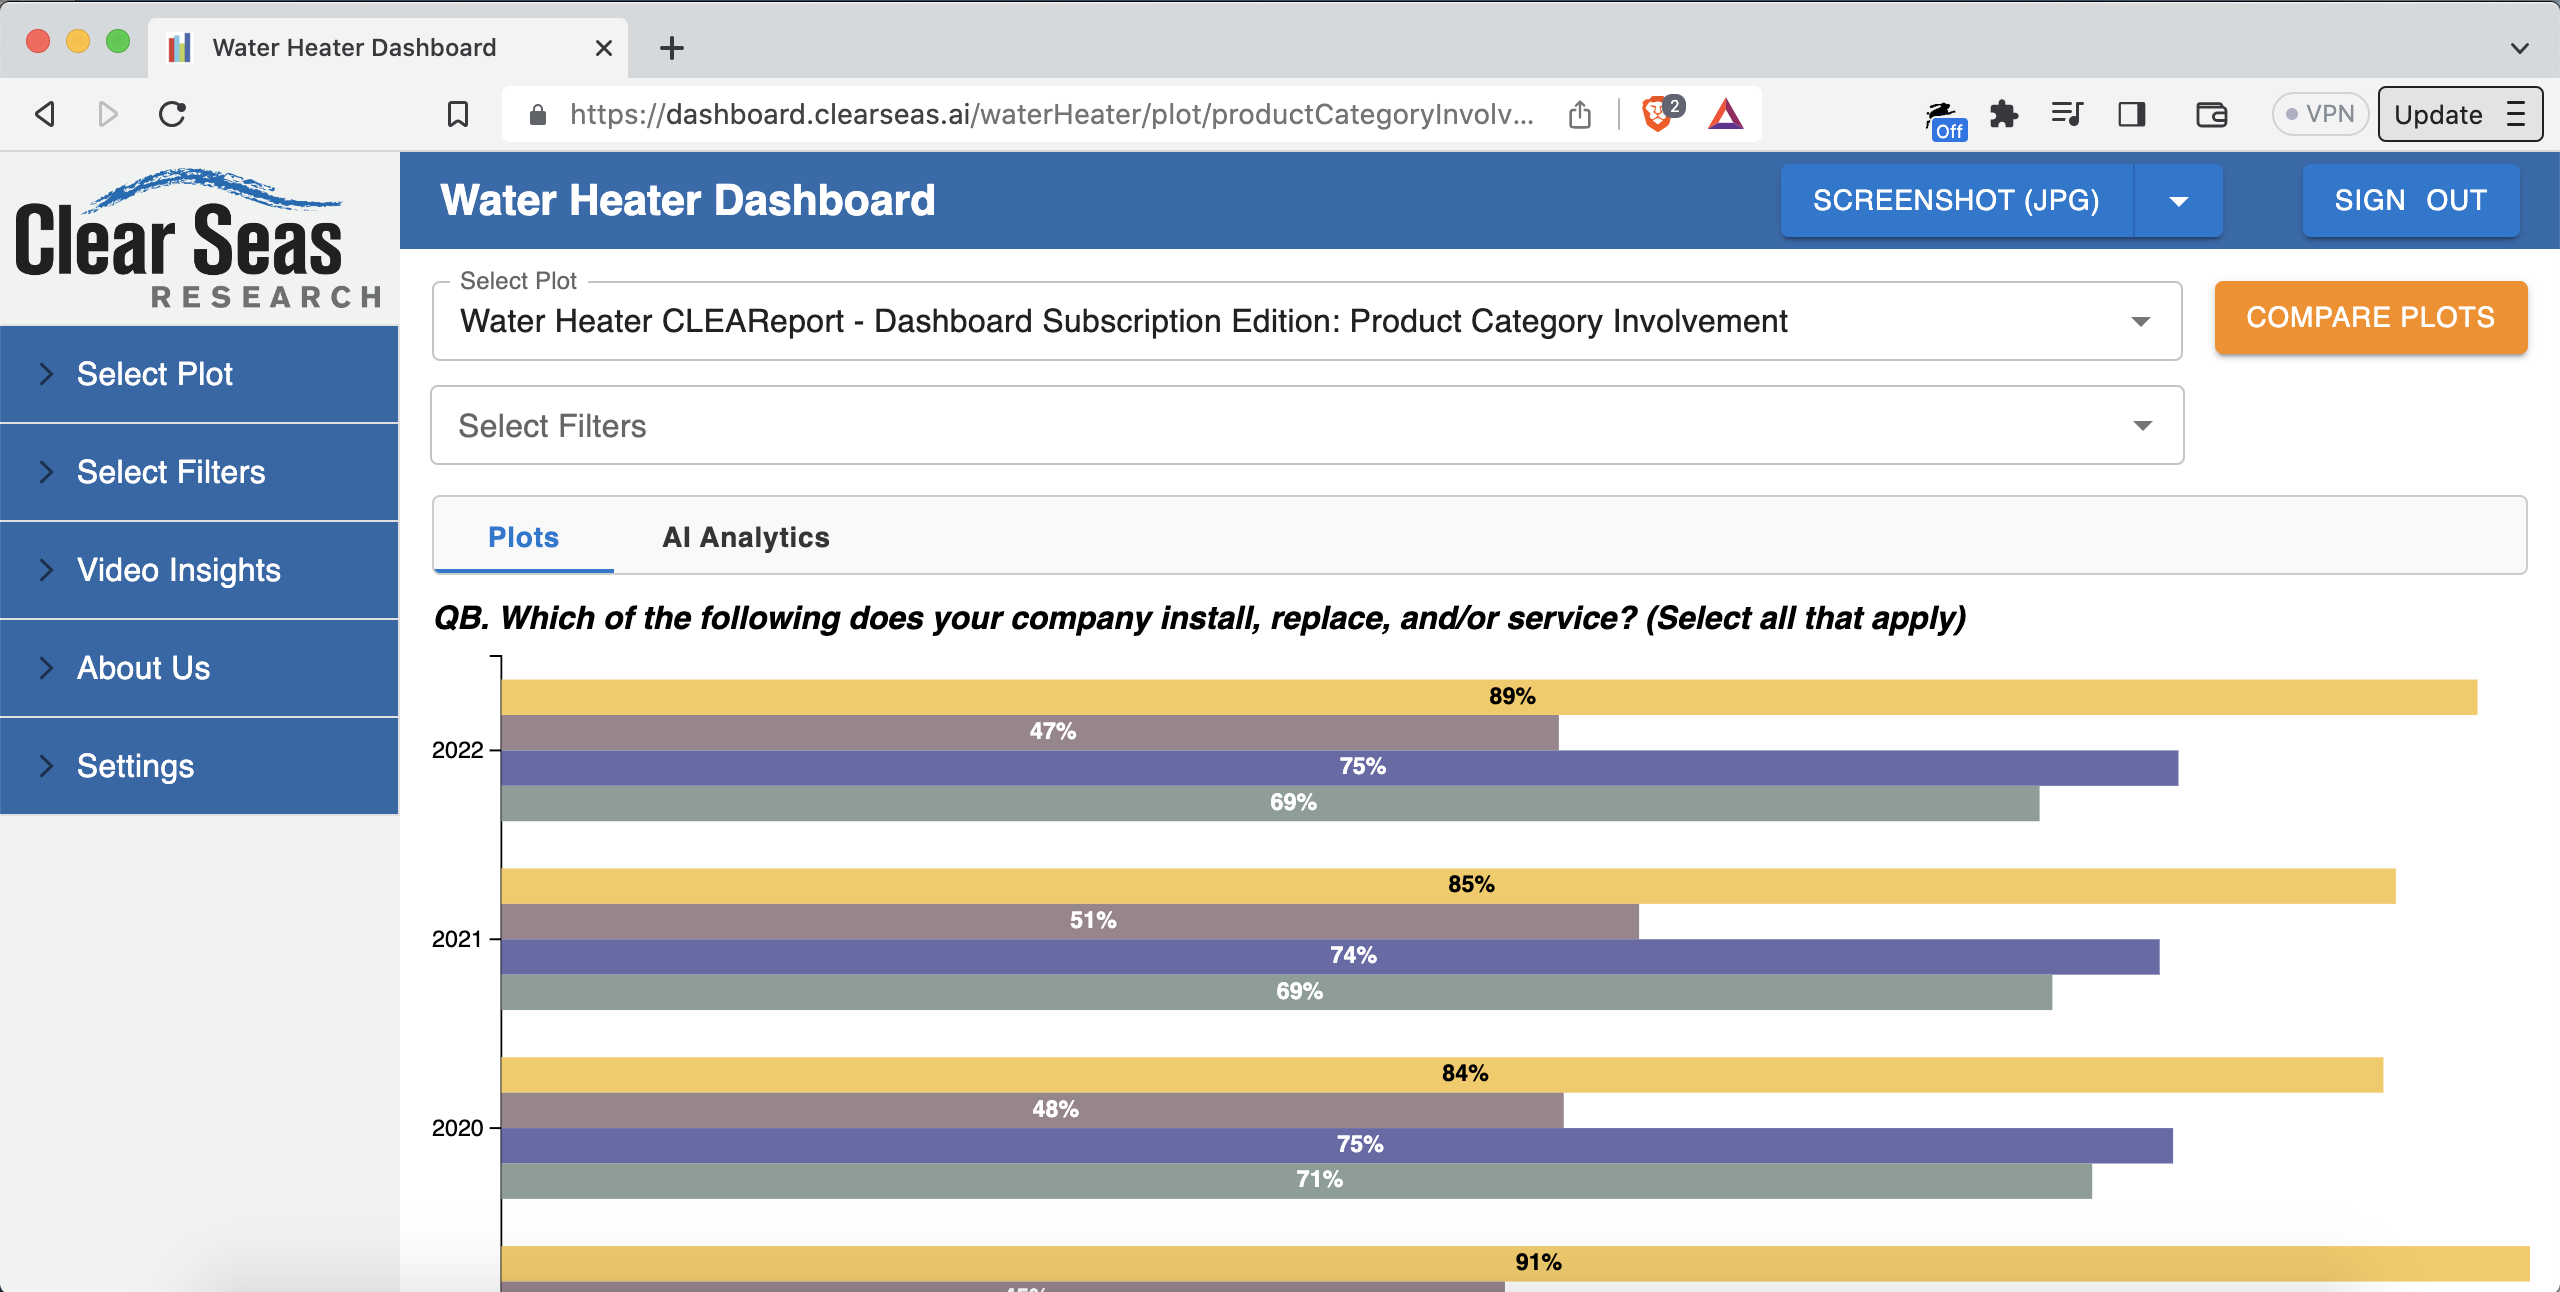
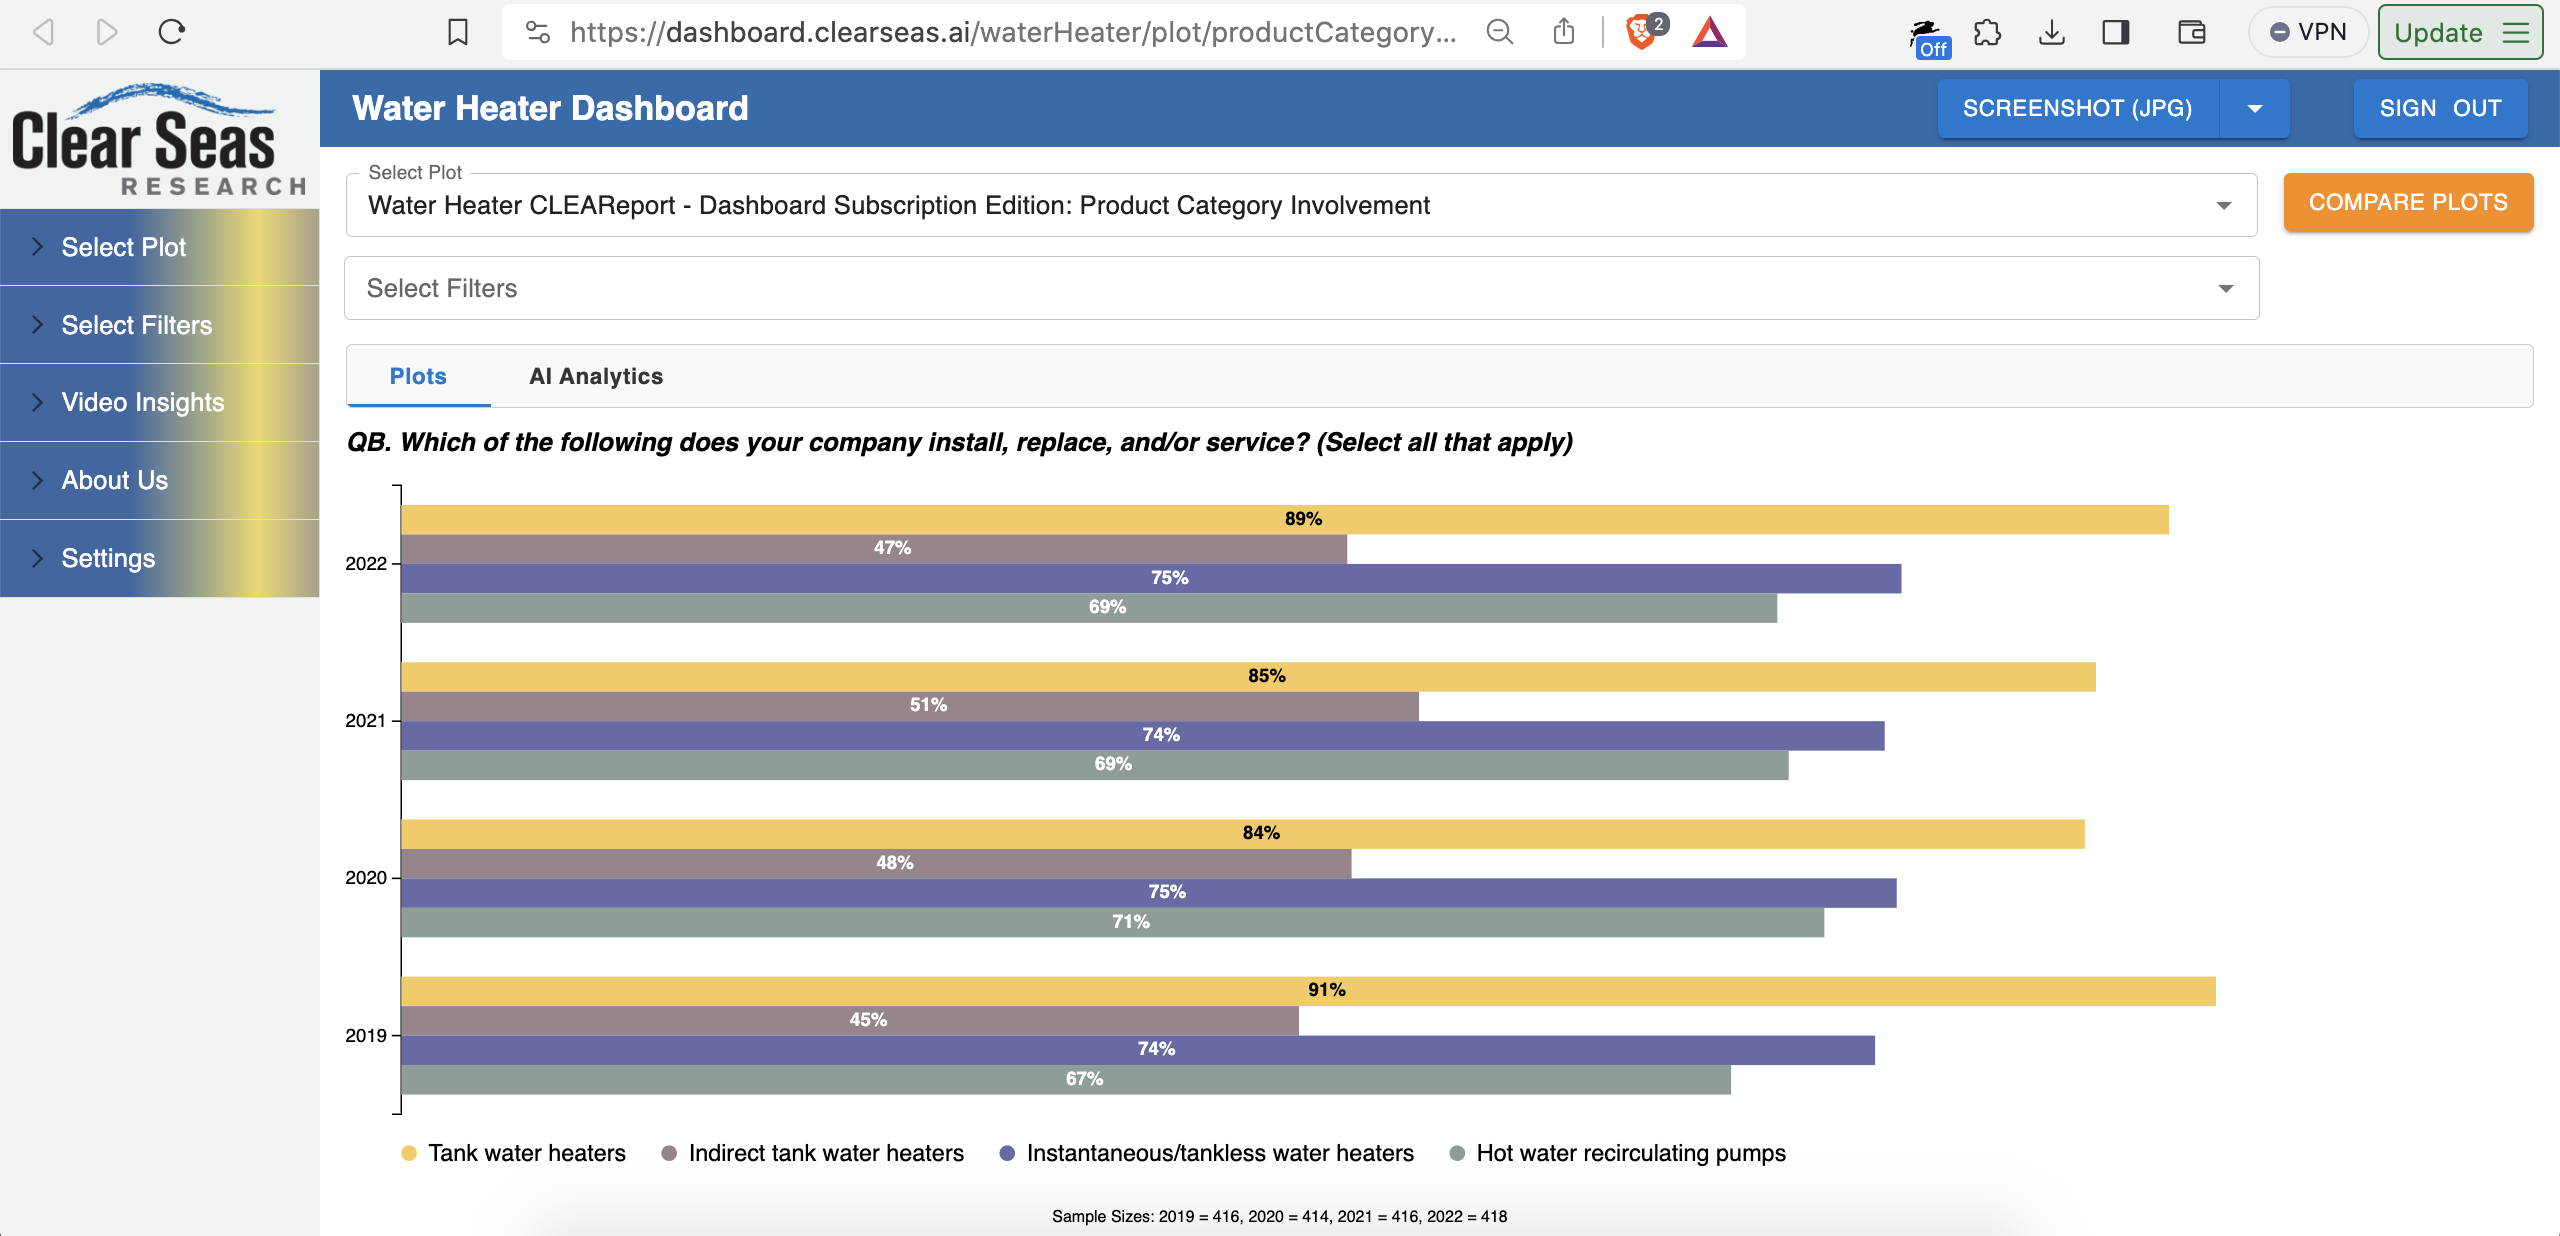
WIP

diff --git a/_posts/2023-9-23-annoucing-a-new-consulting-project.md b/_posts/2023-9-23-annoucing-a-new-consulting-project.md
@@ -4,10 +4,10 @@
 
 #### A few months ago, I posted about a project for Mitchell Henderson, the CEO of Clear Seas Research, a market research company in Troy Michigan: [https://tinyurl.com/664kraza](https://tinyurl.com/664kraza).
 
-Here's what it looks like:
+Here's what that project looks like:
 ![ENRCostData.com](https://bradleyculley.github.io/images/ENR_Cost_Data.png)
 
-That was actually the *second* project I worked on for Mitchell, and today I’m posting about the first! Technical details are at the end, if you're looking for those.
+That was actually the *second* project I worked on for Mitchell. Today I’m posting about the first! Technical details are at the end, if you're looking for those.
 
 ---
 
@@ -15,33 +15,33 @@ That was actually the *second* project I worked on for Mitchell, and today I’m
 
 It’s an AI-first platform for understanding market research data.
 
-Mitchell and I worked on it for about a year and half. March 2022 to August 2023.
+Mitchell and I worked on it for a year and half. March 2022 to August 2023.
 
-The team has also grown during that time. Mitchell’s brought on four more software engineers over the past 6 months, through the TopTal contracting service. I performed the interviews and served as their engineering manager. All four are superb engineers, who have been awesome to work with.
+The team has also grown during that time. Mitchell’s brought on four more software engineers over the past 6 months, through the TopTal contracting service. I performed the interviews and served as their engineering manager. All four are superb engineers. They've been awesome to work with.
 
-This is one of the dashboards: [https://dashboard.clearseas.ai/waterHeater](https://dashboard.clearseas.ai/waterHeater)
+This is one of the "dashboards" in the platform: [https://dashboard.clearseas.ai/waterHeater](https://dashboard.clearseas.ai/waterHeater)
 
 ![Water heater dashboard.png](https://bradleyculley.github.io/images/Water_heater_dashboard.png)
 
 That dashboard is all about water heaters. The intended users are employees of water heater manufacturing companies.
 
-The whole platform has about 90 different "dashboard types". To give economic scale, a given dashboard sells for about $100,000/year (sometimes bundled with a separate research report).
+The whole platform has about 90 different "dashboard types". To give economic scale, a given dashboard sells for about $100,000/year, sometimes bundled with a separate research report.
 
-The core of the platform is its plots. For example, let’s say you wanted to know which types of water heaters are most popular, and to see the trend over the past three years. The types are "tank" (has a water tank), "tankless/instantaneous" (no water tank), and so on. In market research, this is called "product category involvement".
+The core of the platform is its plots. For example, let’s say you wanted to know which types of water heaters are most popular, and to see the trend over the past three years. The types are "tank" (has a water tank), "tankless/instantaneous" (no water tank), and so on. In market research terminology, this is called "product category involvement".
 
-Here’s a chart with that breakdown: [https://dashboard.clearseas.ai/waterHeater/plot/productCategoryInvolvement](https://dashboard.clearseas.ai/waterHeater/plot/productCategoryInvolvement).
+Here’s a chart with that breakdown: [https://dashboard.clearseas.ai/waterHeater/plot/productCategoryInvolvement](https://dashboard.clearseas.ai/waterHeater/plot/productCategoryInvolvement)
 
 ![Water heater product category involvement.png](https://bradleyculley.github.io/images/Water_heater_product_category_involvement.png)
 
-A "killer feature" is side-by-side chart comparisons, including with different filters on the left and the right.
+A "killer feature" is side-by-side chart comparisons, including with different filters on the left and right.
 
 For example, what’s the product category involvement for small companies versus large companies?
 
 In other words, does the choice of what kind of water heater gets installed depend on whether it’s installed by a small HVAC company or a large HVAC company? Do small companies hate dealing with tankless for some reason?
 
-Here's your answer: [https://tinyurl.com/mrfszzv4](https://tinyurl.com/mrfszzv4).
+Here's your answer: [https://tinyurl.com/mrfszzv4](https://tinyurl.com/mrfszzv4)
 
-![Water heater company sizes.png](https://bradleyculley.github.io/images/Water_heater_company_sizes.png)
+![Product_Category_Involvement_Plot_Comparison.png](https://bradleyculley.github.io/images/Product_Category_Involvement_Plot_Comparison.png)
 
 Small HVAC companies keep it simple. They deal less in indirect tank heaters.
 
@@ -218,9 +218,9 @@ The final leg of DNS delegation to the ALB is just an A record.
 So it’s:
 > 1.	NS record DNS entry performed by the 3rd-party client hosting the core domain<br><br>
 > 2.	Route 53 Hosted Zone for just the subdomain.<br><br>
-Fact: you can create a hosted domain for whatever DNS value you want, even without having AWS as the domain registrar for the relevant domain. You get nameservers and all. If something delegates to those nameservers, you’re in business.
+You can create a hosted domain for whatever DNS value you want, even without having AWS as the domain registrar for the relevant domain. You get nameservers and all. If something delegates to those nameservers, you’re in business.
 Here's an example: ![Route_53_hosted_zone.png](https://bradleyculley.github.io/images/Route_53_hosted_zone.png)<br><br>
-> 3.	An A record pointing to the ALB’s DNS entry.
+> 3.	An A record pointing to the ALB’s DNS entry (as in the screenshot).
 
 We solved the TLS problem using:
 > 1.	ACM-generated, Route 53-validated certs (via Terraform!). The cool thing about NS-based delegation is you can add validation records like CNAMEs and TXTs to the Hosted Zone and they resolve just fine. ACM-managed certs mean auto-renewal/no-hassle.<br><br>
@@ -230,7 +230,7 @@ Digital transformation:
 
 When I joined, the project was in its early stages. The codebase had at that point been built out entirely by a single developer. That developer then moved on to take a job as a software engineer at Facebook/Meta.
 
-He did a great job creating a capable MVP. It was, and still is, written with a Node.js backend and a React frontend. I used Spring Boot (Java) as the backend framework for the greenfield projects I built for Mitchell, but there wasn’t reason to migrate the (fairly complex) Node.js backend to Spring Boot. TypeScript, however: yes.
+He did a great job creating a capable MVP. It was, and still is, written with a Node.js backend and a React frontend. I used Spring Boot (Java) as the backend framework for the greenfield projects for Mitchell. There wasn’t reason to migrate the (fairly complex) Node.js backend to Spring Boot. TypeScript, however: yes.
 
 Digital transformation of the infrastructure:
 #### Before:
